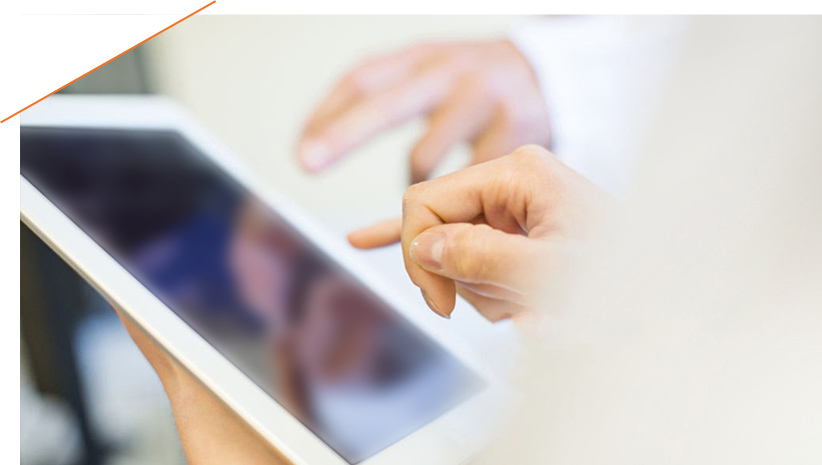
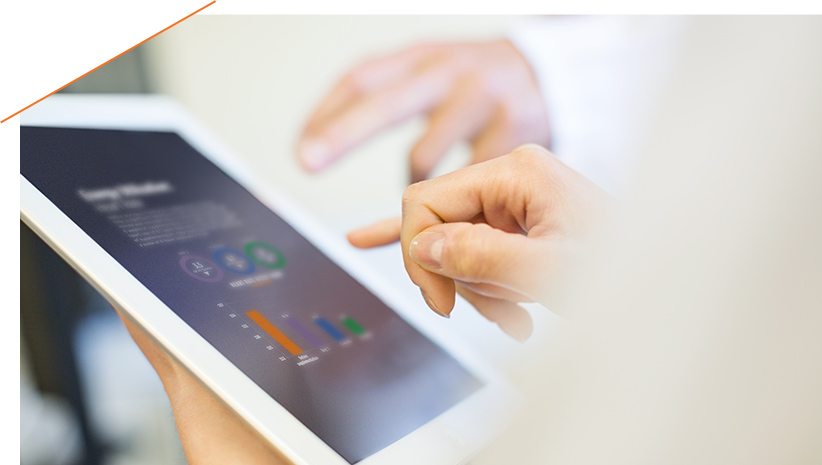
Finished first pass at contents section animations

diff --git a/src/scss/_contents.scss b/src/scss/_contents.scss
@@ -31,25 +31,39 @@ $opacity-faded: .15;
   position: absolute;
   width: 100%;
   height: 100%;
-  // visibility: hidden;
   align-self: stretch;
   justify-self: stretch;
   color: #fff;
-  transition: opacity 1s ease;
-  opacity: 0;
+  // opacity: 0;
 
   &.active {
-    opacity: 1;
+    animation: fade-in 2s ease both;
+  }
+
+  &.fade-out {
+    animation: fade-out 1s ease both;
   }
 }
 
 .contents-title,
 .contents-head,
 .contents-subhead,
-.contents-list {
+.contents-list,
+.contents-image {
   position: absolute;
 }
 
+.contents-title,
+.contents-head,
+.contents-subhead,
+.contents-list-item,
+.contents-image {
+  opacity: 0;
+
+  .contents-slide.fade-out & {
+    opacity: 1;
+  }
+}
 
 .contents-title {
   top: 30%;
@@ -59,12 +73,14 @@ $opacity-faded: .15;
   text-transform: uppercase;
   white-space: nowrap;
   letter-spacing: .3em;
-  opacity: 0;
-  // transform: translateY(-50%);
+
+  .contents-slide.active &,
+  .contents-slide.fade-out & {
+    opacity: $opacity-faded;
+  }
 
   .contents-slide.active & {
-    opacity: $opacity-faded;
-    animation: title-fade-in 3s ease forwards;
+    animation: title-fade-in 3s ease both;
   }
 }
 
@@ -77,15 +93,27 @@ $opacity-faded: .15;
   font-weight: $font-weight-normal;
   letter-spacing: -0.01em;
   color: $primary;
-  opacity: 0;
-  // transform: translate(-100%, -60%);
 
-  .contains.active & {
-    animation: slide-up-in 1s ease 2s forwards;
+  .fade-out & {
+    opacity: 1;
   }
 
+  //
+  // First slide
+  .contains.active & {
+    animation: slide-up-in 1s ease 2s both;
+  }
+
+  //
+  // Second slide
   .developed.active & {
-    animation: slide-left-in 1s ease 2s forwards;
+    animation: slide-left-in 1s ease 2s both;
+  }
+
+  //
+  // Third slide
+  .combined.active & {
+
   }
 }
 
@@ -97,10 +125,27 @@ $opacity-faded: .15;
   color: $primary;
   text-transform: uppercase;
   letter-spacing: .2em;
-  opacity: 0;
 
   .developed.active & {
-    animation: slide-left-in 1s ease 3.5s forwards;
+    animation: slide-left-in 1s ease 3.5s both;
+  }
+
+  .combined & {
+    top: 18.5%;
+    left: 63%;
+    font-size: 85px;
+    font-weight: $font-weight-thin;
+    line-height: 1;
+    color: #fff;
+    text-transform: unset;
+    letter-spacing: unset;
+
+    em {
+      font-weight: $font-weight-normal;
+      font-style: normal;
+      text-transform: uppercase;
+      letter-spacing: .2em;
+    }
   }
 }
 
@@ -118,10 +163,8 @@ $opacity-faded: .15;
   }
 
   &-item {
-    opacity: 0;
-
     .contains.active & {
-      animation: slide-up-in 1s ease forwards;
+      animation: slide-up-in 1s ease both;
 
       @for $i from 1 through 12 {
         &:nth-child(#{$i}n) {
@@ -131,7 +174,7 @@ $opacity-faded: .15;
     }
 
     .developed.active & {
-      animation: slide-left-in 1s ease 2s forwards;
+      animation: slide-left-in 1s ease 2s both;
 
       @for $i from 1 through 12 {
         &:nth-child(#{$i}n) {
@@ -140,9 +183,30 @@ $opacity-faded: .15;
       }
     }
   }
+}
+
+.contents-image {
+  top: 46%;
+  right: 18%;
+  max-width: 333px;
+}
+
+.contents-slide.combined.active {
+  // opacity: 0;
+  // animation: fade-scale-in 3s ease-out 5s both;
+
+  // .contents-head,
+  // .contents-subhead,
+  // .contents-image {
+  //   opacity: 1;
+  // }
 
 
-
+  .contents-head,
+  .contents-subhead,
+  .contents-image {
+    animation: fade-scale-in 3s ease-out 2s both;
+  }
 }
 
 
@@ -166,11 +230,11 @@ $opacity-faded: .15;
 
 
 @keyframes slide-up-in {
-  from {
+  0% {
     opacity: 0;
     transform: translateY(100%);
   }
-  to {
+  100% {
     opacity: 1;
     transform: translateY(0);
   }
@@ -194,3 +258,25 @@ $opacity-faded: .15;
 @keyframes slide-left-out {
   // TODO
 }
+
+@keyframes fade-scale-in {
+  0% {
+    opacity: 0;
+    transform: scale(.75);
+  }
+  100% {
+    opacity: 1;
+    transform: scale(1);
+  }
+}
+
+@keyframes fade-in {
+  from { opacity: 0; }
+  to { opacity: 1; }
+}
+
+@keyframes fade-out {
+  from { opacity: 1; }
+  to { opacity: 0; }
+}
+

diff --git a/src/containers/Hero.jsx b/src/containers/Hero.jsx
@@ -39,8 +39,6 @@ class Hero extends Component {
   }
 
   handleTimeUpdate = (event) => {
-    // console.log('progress event', event);
-    // console.log('time', event.target.currentTime);
     const { currentTime } = event.target;
     heroSlides.forEach((slide, index) => {
       if (currentTime >= slide.time && currentTime <= slide.time + .25) {

diff --git a/src/containers/Contents.jsx b/src/containers/Contents.jsx
@@ -86,7 +86,7 @@ class Contents extends Component {
                   </ul>
                 }
                 {item.img &&
-                  <img src={item.img.url} alt={item.img.altText} />
+                  <img className='contents-image' src={item.img.url} alt={item.img.altText} />
                 }
               </div>
             ))}

diff --git a/src/util/config.js b/src/util/config.js
@@ -226,7 +226,7 @@ export const contentsList = [
     id: 'combined',
     subhead: 'powerfulProduct',
     img: {
-      url: 'packets.png',
+      url: 'https://cdnctus.melaleuca.com/microsites/peak-performance/images/packets.png',
       altText: 'Peak Performance Packets'
     }
   }
